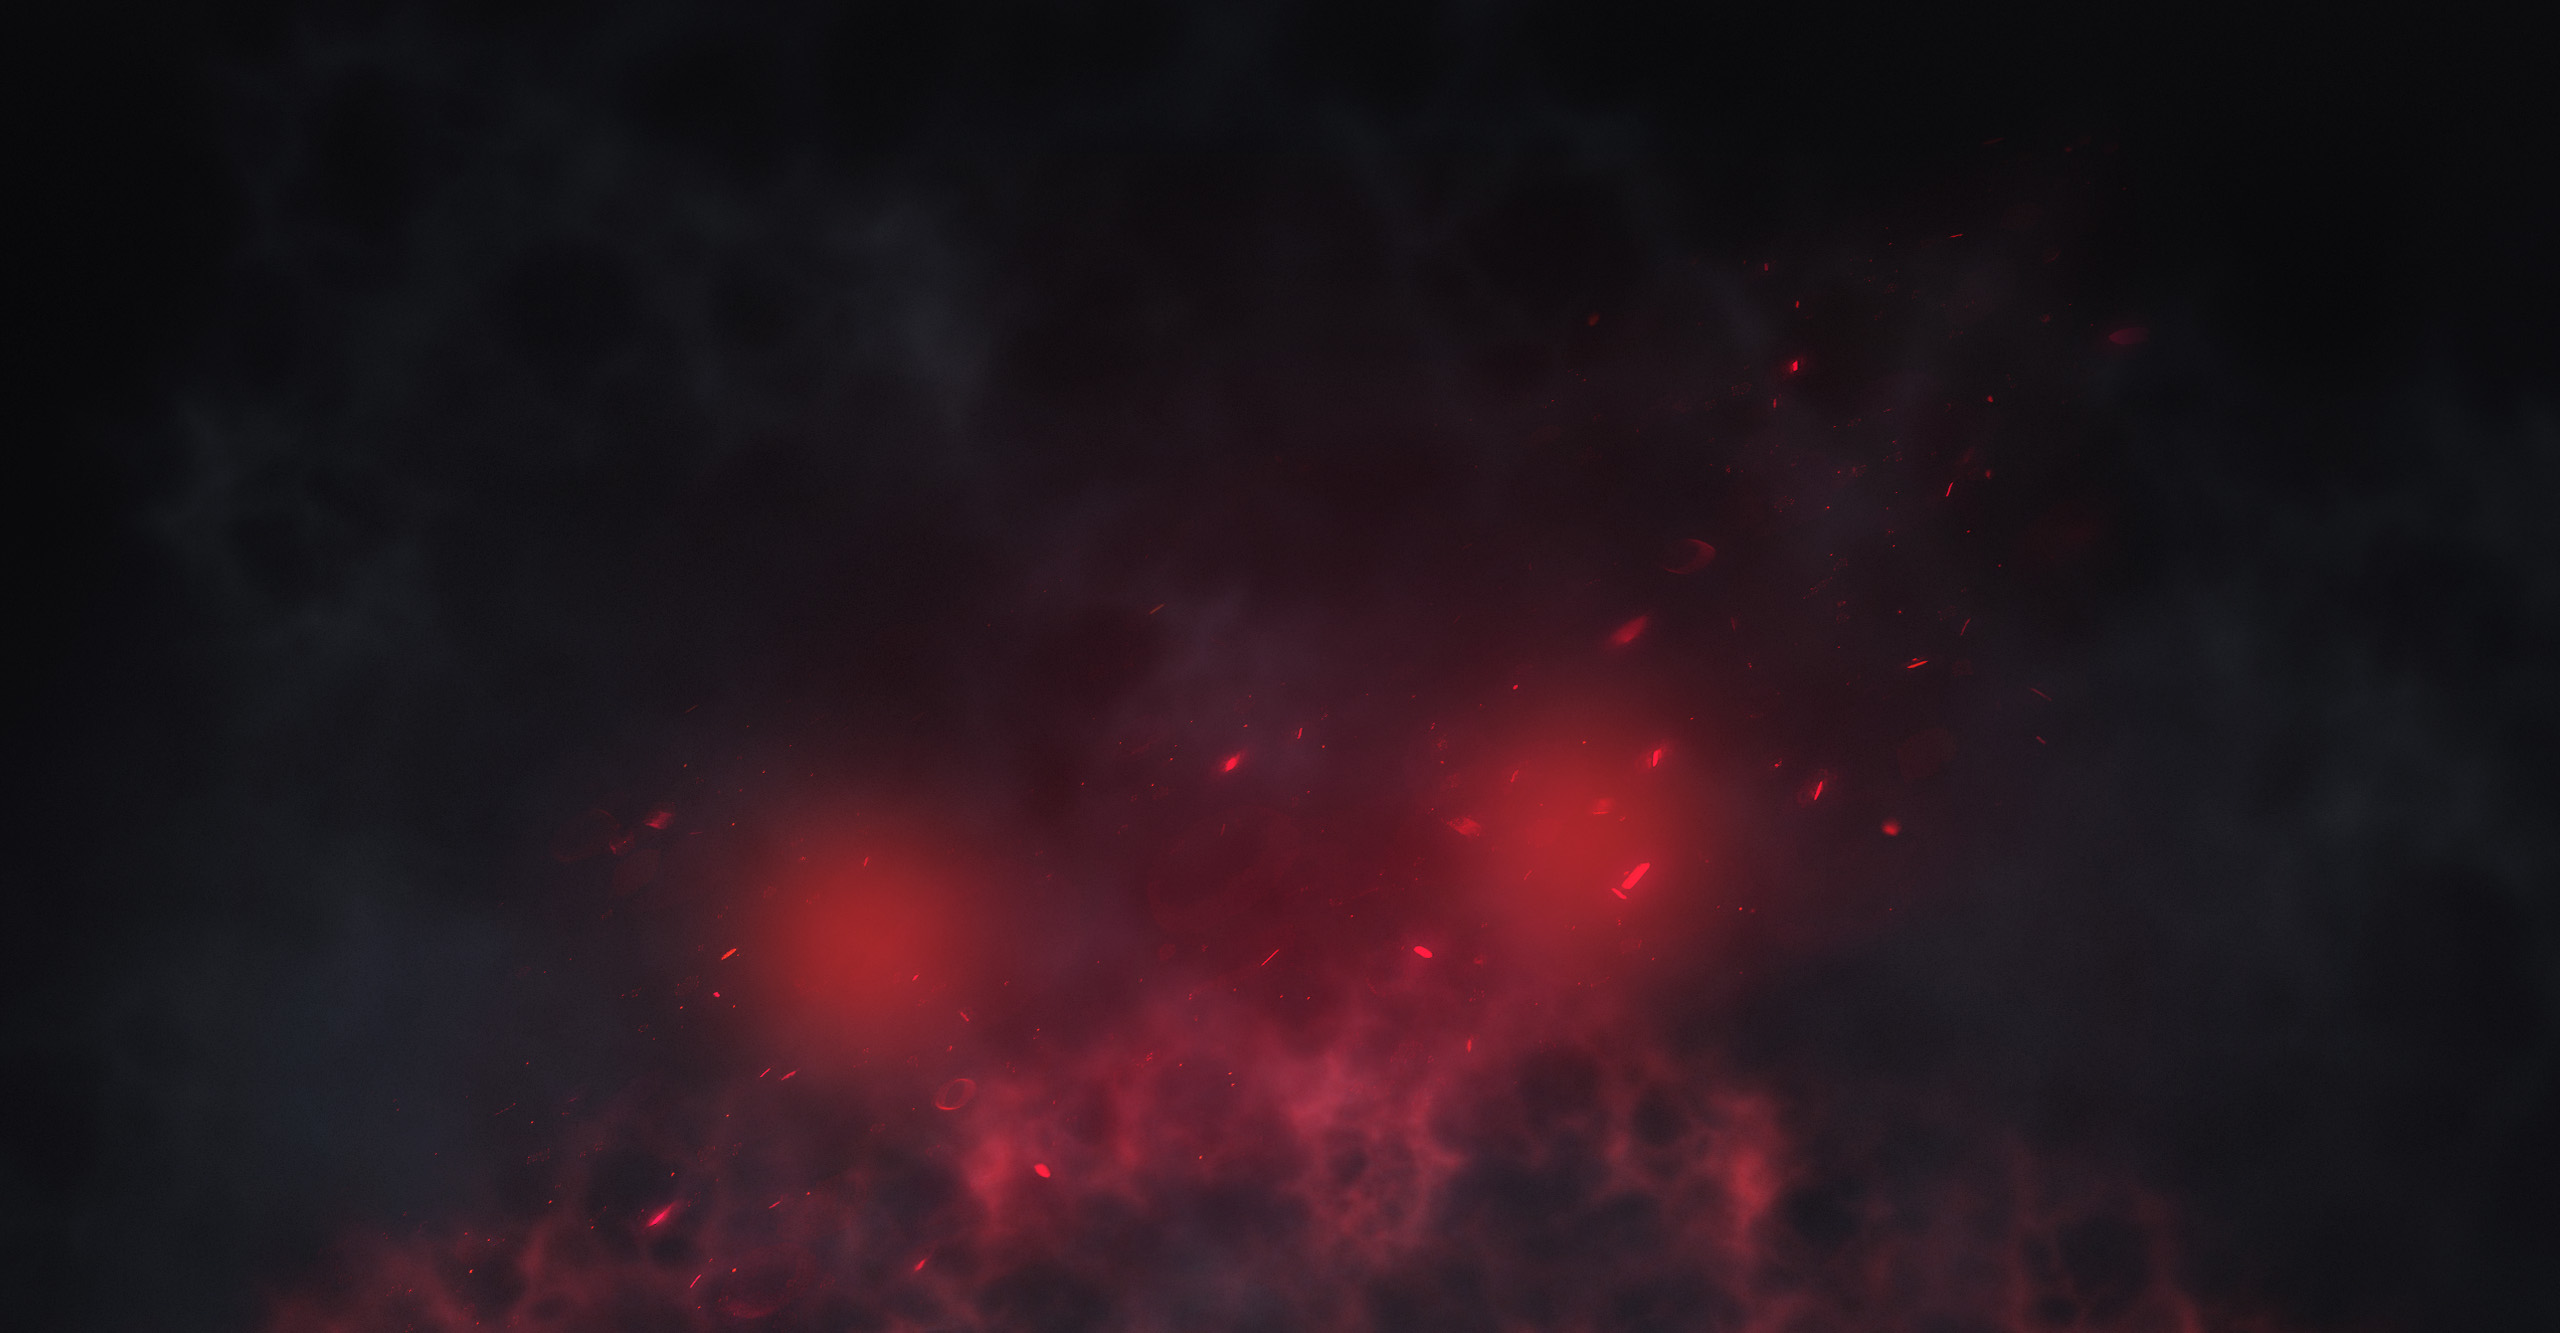
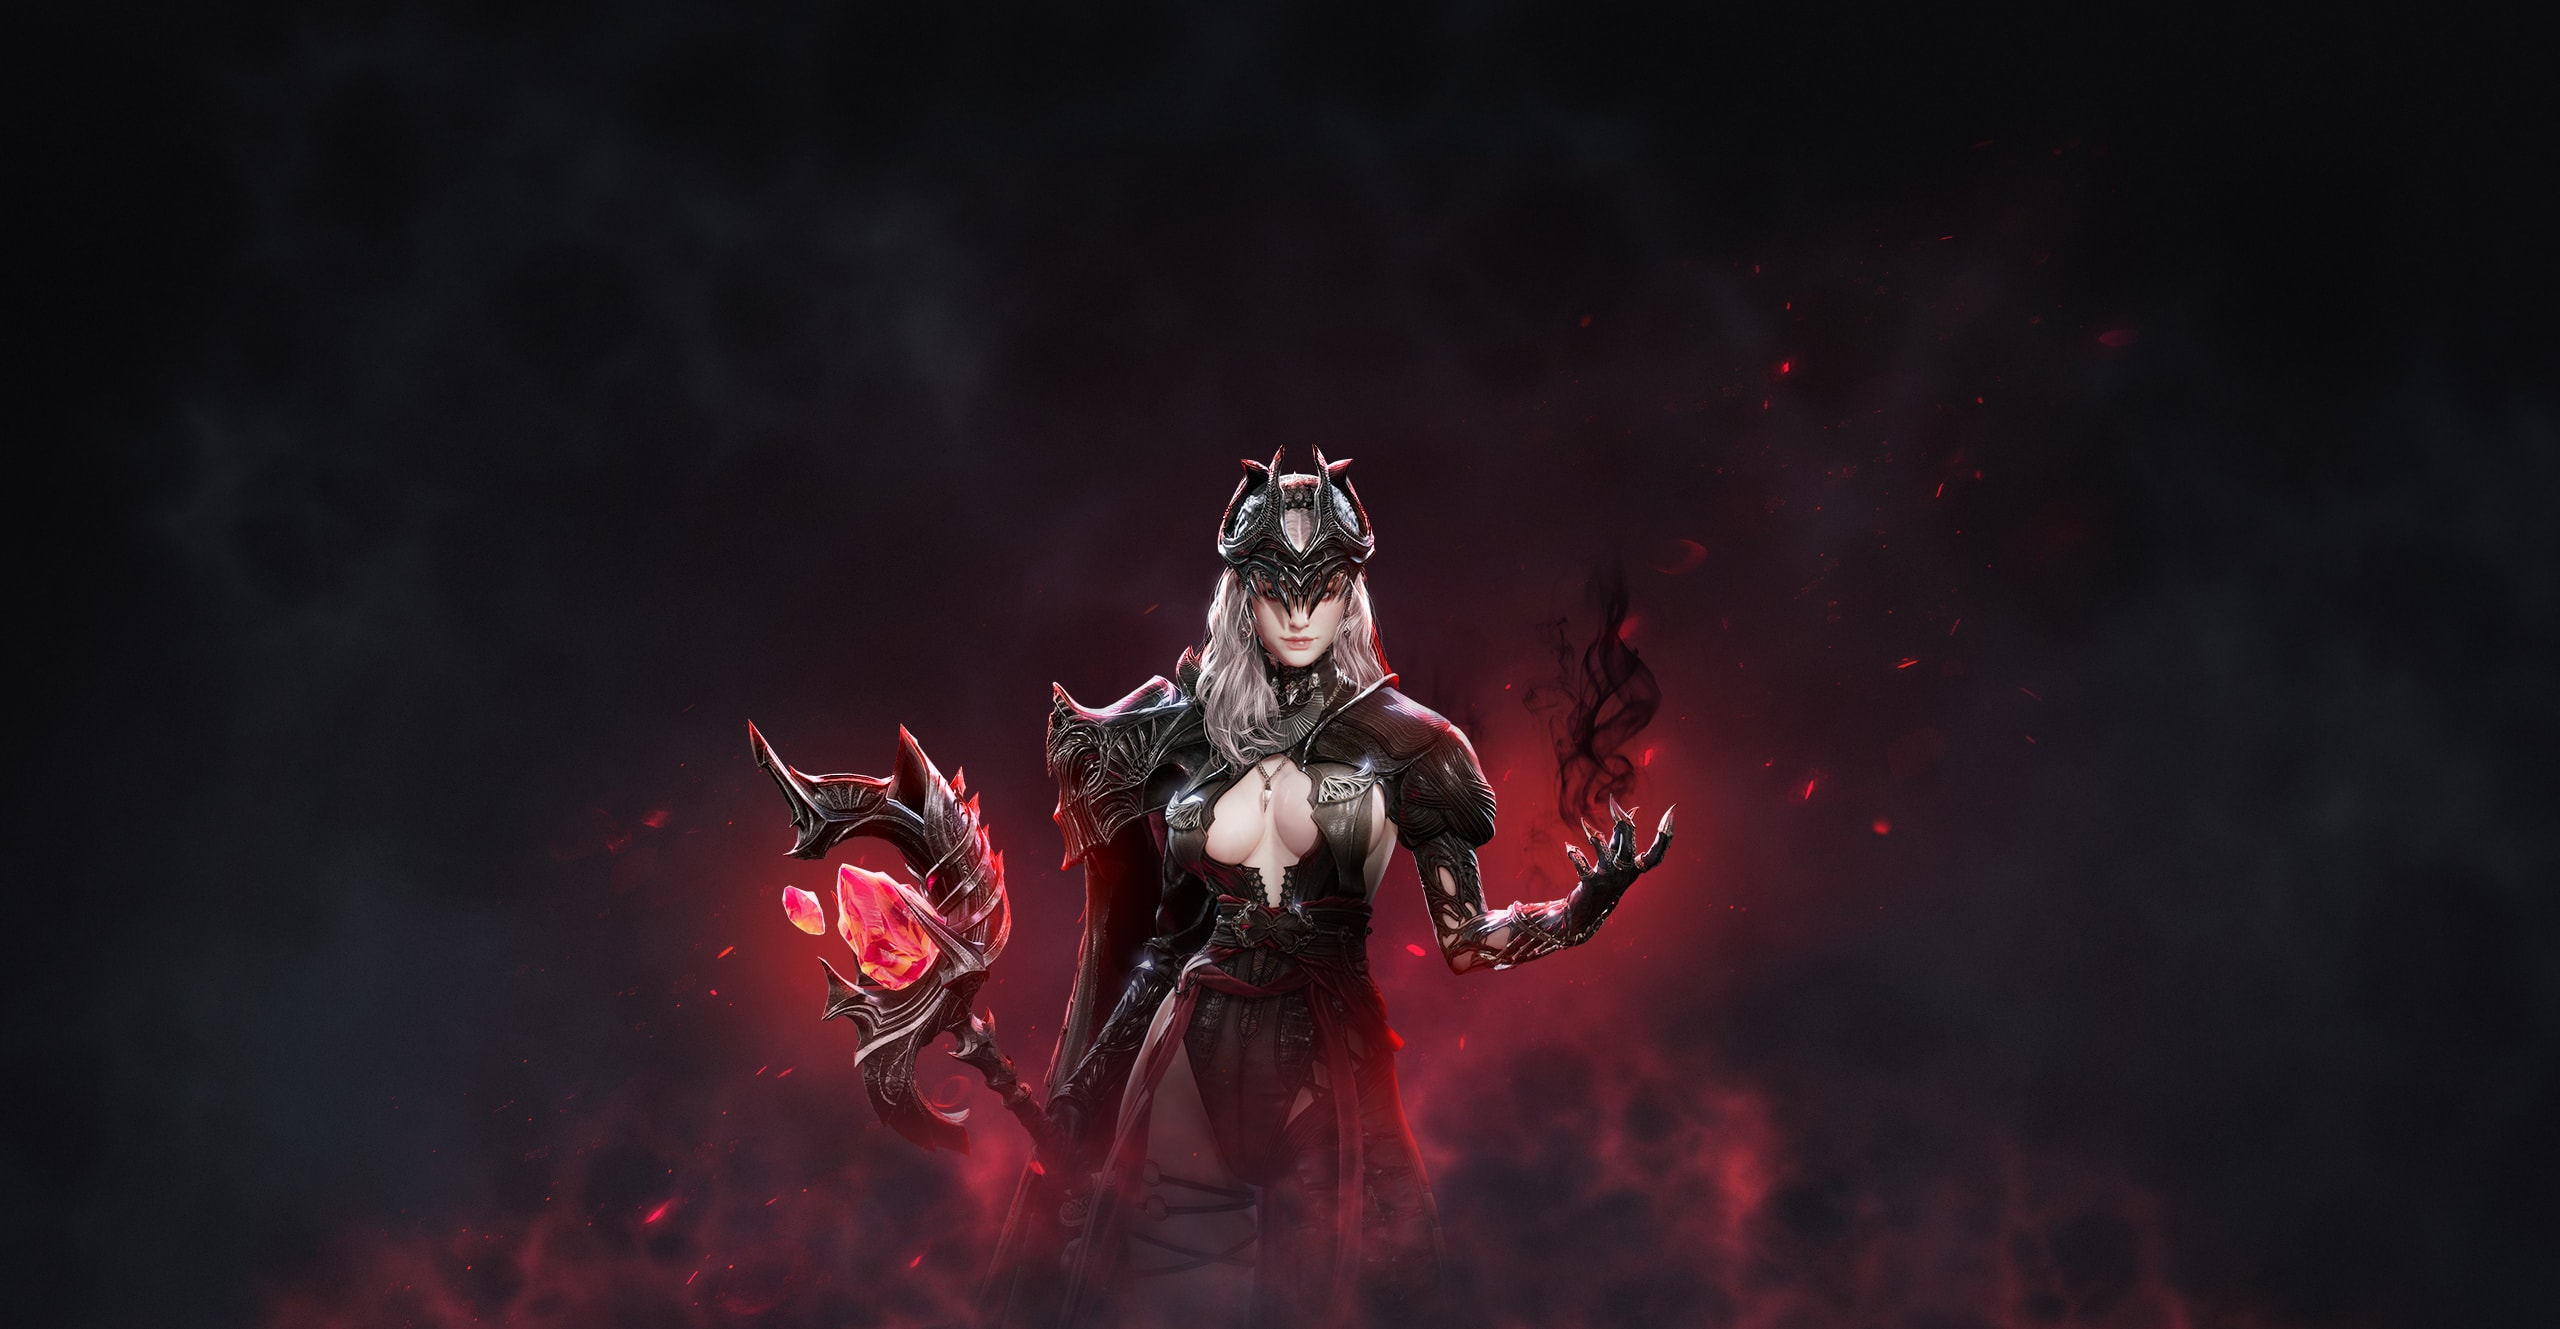
[episode-7] pc kv section and s2 style fix. s2 section finished.

Changed region(s): [[0.2812, 0.3394, 0.6562, 0.8947], [0.7188, 0.617, 0.75, 0.6479]]

diff --git a/episode-7/css/style.css b/episode-7/css/style.css
@@ -712,7 +712,7 @@ body {
 .container {
   max-width: 1200px;
   margin: 0 auto;
-  padding: 16px 24px;
+  padding: 48px 16px;
 }
 
 .color-primary {
@@ -836,22 +836,6 @@ body {
   position: relative;
   overflow: hidden;
 }
-.section__bg {
-  width: 100%;
-  height: 100%;
-  display: -webkit-box;
-  display: -ms-flexbox;
-  display: flex;
-  -webkit-box-pack: center;
-      -ms-flex-pack: center;
-          justify-content: center;
-  -webkit-box-align: center;
-      -ms-flex-align: center;
-          align-items: center;
-  position: absolute;
-  top: 0;
-  left: 0;
-}
 .section__bg::after {
   content: "";
   display: block;
@@ -871,10 +855,15 @@ body {
 .section__video {
   width: 100%;
   height: 100%;
+  position: absolute;
+  top: 0;
+  left: 0;
   -o-object-fit: cover;
      object-fit: cover;
   -o-object-position: center;
      object-position: center;
+  -webkit-transform: translateZ(0);
+          transform: translateZ(0);
 }
 .section__container {
   position: absolute;
@@ -882,8 +871,6 @@ body {
   left: 50%;
   -webkit-transform: translate(-50%, -50%);
           transform: translate(-50%, -50%);
-  width: 100%;
-  height: 100%;
 }
 .section__wrapper {
   display: -webkit-box;
@@ -898,33 +885,10 @@ body {
   position: relative;
   height: 100%;
 }
-.section__logo {
-  background-size: contain;
-  background-position: 50% 50%;
-  background-repeat: no-repeat;
-  width: 172px;
-  height: 120px;
-  -ms-flex-negative: 0;
-      flex-shrink: 0;
-  background-image: url(../images/img_head_logo.png);
-}
-.section__textbox {
-  margin: 40px 0 16px;
-}
-.section__text {
-  color: #d0d0d0;
-  text-align: center;
-  font-size: 18px;
-}
 .section__title {
-  background-size: contain;
-  background-position: 50% 50%;
-  background-repeat: no-repeat;
-  width: 580px;
-  height: 120px;
-  -ms-flex-negative: 0;
-      flex-shrink: 0;
-  margin-top: 24px;
+  width: auto;
+  height: 130px;
+  margin-top: 120px;
 }
 .section__btn {
   background-size: contain;
@@ -954,7 +918,6 @@ body {
 
 .section-slide {
   min-height: 100vh;
-  max-height: 100vh;
 }
 
 @media screen and (max-width: 1200px) {
@@ -1128,13 +1091,13 @@ body {
 }
 .kv-section__date {
   background: url(../images/kv_date.png);
-  width: 48.1666666667%;
-  height: 6.75%;
+  width: 578px;
+  height: 81px;
   background-size: contain;
   background-position: 50% 50%;
   background-repeat: no-repeat;
   font-size: 0em;
-  margin: 32px auto;
+  margin: 16px auto 32px;
   -webkit-animation: fadeUp 1.5s cubic-bezier(0.65, 0, 0.35, 1) 1 forwards;
           animation: fadeUp 1.5s cubic-bezier(0.65, 0, 0.35, 1) 1 forwards;
 }
@@ -1164,25 +1127,30 @@ body {
   background-position: 50% 100%;
 }
 
-.s2-section {
-  position: relative;
-}
-.s2-section::after {
-  content: "";
-  background-size: contain;
-  background-position: 50% 50%;
-  background-repeat: no-repeat;
-  width: 1091px;
-  height: 100%;
-  background-image: url(../images/s2_main_visual.png);
-  position: absolute;
-  bottom: 0;
-}
 .s2-section__bg {
-  background: url(../images/bg_weapon.jpg);
+  background: url(../images/s2_bg.jpg);
   background-size: cover;
   background-position: 50% 50%;
   background-repeat: no-repeat;
+}
+.s2-section__imgbox {
+  width: 1080px;
+  height: 750px;
+  position: relative;
+  margin-top: -5%;
+}
+.s2-section__imgbox * {
+  position: absolute;
+}
+.s2-section__img01 {
+  width: 35.5833333333%;
+  top: 1.6666666667%;
+  left: calc(50% + -550px);
+}
+.s2-section__img02 {
+  width: 35.5833333333%;
+  bottom: 2.5%;
+  right: calc(50% + -430px);
 }
 
 .s3-section__wrapper {

diff --git a/episode-7/index.html b/episode-7/index.html
@@ -77,41 +77,14 @@
     <main class="content">
       <div class="swiper section-slide">
         <div class="swiper-wrapper section-slide__wrapper">
-          <section class="swiper-slide" id="sectionMain">
-            <div class="section kv-section">
-              <div class="section__bg">
-                <video class="section__video d-none-sm" autoplay loop muted playsinline>
-                  <source src="./images/video/kv_video_pc.mp4">
-                </video>
-                <video class="section__video d-none-lg d-block-sm" autoplay loop muted playsinline>
-                  <source src="./images/video/kv_video_mb.mp4">
-                </video>
-              </div>
-              <div class="section__container">
-                <div class="section__wrapper column"><img class="kv-section__sub-title" src="./images/kv_title_sub.png" alt="">
-                  <div class="kv-section__smoke"></div>
-                  <div class="kv-section__visual"><img class="kv-section__title" src="./images/kv_title_01.png" alt=""><img class="kv-section__title" src="./images/kv_title_02.png" alt=""><img class="kv-section__title" src="./images/kv_title_03.png" alt=""><img class="kv-section__title" src="./images/kv_title_04.png" alt=""><img class="kv-section__title" src="./images/kv_title_05.png" alt=""><img class="kv-section__title" src="./images/kv_title_06.png" alt=""><img class="kv-section__title" src="./images/kv_title_07.png" alt=""></div>
-                  <svg width="0" height="0">
-                    <defs>
-                      <filter id="smokeFlow" x="0" y="0" width="100%" height="100%">
-                        <feTurbulence type="fractalNoise" baseFrequency="0.01" numOctaves="3" result="turbulence">
-                          <animate attributeName="baseFrequency" dur="20s" values="0.01; 0.02; 0.01" repeatCount="indefinite"></animate>
-                        </feTurbulence>
-                        <feDisplacementMap in="SourceGraphic" in2="turbulence" scale="30"></feDisplacementMap>
-                      </filter>
-                    </defs>
-                  </svg>
-                  <p class="kv-section__date">2025.06.04(三) UPDATE</p>
-                  <button class="kv-section__btn"></button><a class="kv-section__scroll" href="#sectionSec"></a>
-                </div>
-              </div>
-            </div>
-          </section>
           <section class="swiper-slide" id="sectionSec">
             <div class="section s2-section">
-              <div class="section__bg s2-section__bg"></div>
-              <div class="section__container">
-                <div class="section__wrapper column"></div>
+              <div class="section__bg s2-section__bg">
+                <div class="container">
+                  <div class="section__wrapper column"><img class="section__title" src="./images/s2_main_title.png" alt="">
+                    <div class="s2-section__imgbox row"><img class="s2-section__img01" src="./images/s2_equip_01.png" alt=""><img class="s2-section__img02" src="./images/s2_equip_02.png" alt=""></div>
+                  </div>
+                </div>
               </div>
             </div>
           </section>

diff --git a/episode-7/scss/_layout.scss b/episode-7/scss/_layout.scss
@@ -17,7 +17,7 @@ body {
 .container {
   max-width: $pc-midrwd-breakpoint + px;
   margin: 0 auto;
-  padding: 16px 24px;
+  padding: 48px 16px;
 }
 
 .color {
@@ -146,11 +146,6 @@ body {
   overflow: hidden;
 
   &__bg {
-    @include size(100%);
-    @include flex-center;
-    position: absolute;
-    top: 0;
-    left: 0;
     &::after {
       content: "";
       display: block;
@@ -164,14 +159,18 @@ body {
 
   &__video {
     @include size(100%);
+    position: absolute;
+    top: 0;
+    left: 0;
     object-fit: cover;
     object-position: center;
+    transform: translateZ(0);
   }
 
   &__container {
     @include center;
-    @include size(100%);
   }
+
 
   &__wrapper {
     @include flex-center;
@@ -179,28 +178,10 @@ body {
     height: 100%;
   }
 
-  &__logo {
-    @include background-contain;
-    @include size(172px,120px);
-    flex-shrink: 0;
-    background-image: url(../images/img_head_logo.png);
-  }
-
-  &__textbox {
-    margin: 40px 0 16px;
-  }
-
-  &__text {
-    color: $text01;
-    text-align: center;
-    font-size: 18px;
-  }
 
   &__title {
-    @include background-contain;
-    @include size(580px,120px);
-    flex-shrink: 0;
-    margin-top: 24px;
+    @include size(auto,130px);
+    margin-top: 120px;
   }
 
   &__btn {
@@ -232,7 +213,6 @@ body {
 
 .section-slide {
   min-height: 100vh;
-  max-height: 100vh;
 }
 
 @media screen and (max-width: ($pc-midrwd-breakpoint* 1px)) {

diff --git a/episode-7/scss/_master.scss b/episode-7/scss/_master.scss
@@ -105,10 +105,10 @@
 
   &__date {
     background: url(../images/kv_date.png);
-    @include size(pct(578px),pct(81px));
+    @include size(578px,81px);
     @include background-contain;
     font-size: .0000000000001em;
-    margin: 32px auto;
+    margin: 16px auto 32px;
     animation: fadeUp 1.5s cubic-bezier(0.65,0,0.35,1) 1 forwards;
   }
 
@@ -134,20 +134,35 @@
 
 }
 
-.s2-section {
-  position: relative;
-  &::after {
-    content: '';
-    @include background-contain;
-    @include size(1091px,100%);
-    background-image: url(../images/s2_main_visual.png);
-    position: absolute;
-    bottom: 0;
-  }
-  &__bg {
-    background: url(../images/bg_weapon.jpg);
-    @include background-cover;
+// s2 section
+// -------------------------------------------------- 
 
+.s2-section {
+  &__bg {
+    background: url(../images/s2_bg.jpg);
+    @include background-cover;
+  }
+
+  &__imgbox {
+    @include size(1080px,750px);
+    position: relative;
+    margin-top: pct(-60px);
+
+    * {
+      position: absolute
+    }
+  }
+
+  &__img01 {
+    width: pct(427px);
+    top: pct(20px);
+    left: calc(50% + #{-(550)}px);
+  }
+
+    &__img02 {
+    width: pct(427px);
+    bottom: pct(30px);
+    right: calc(50% + #{-(430)}px);
   }
 }
 
